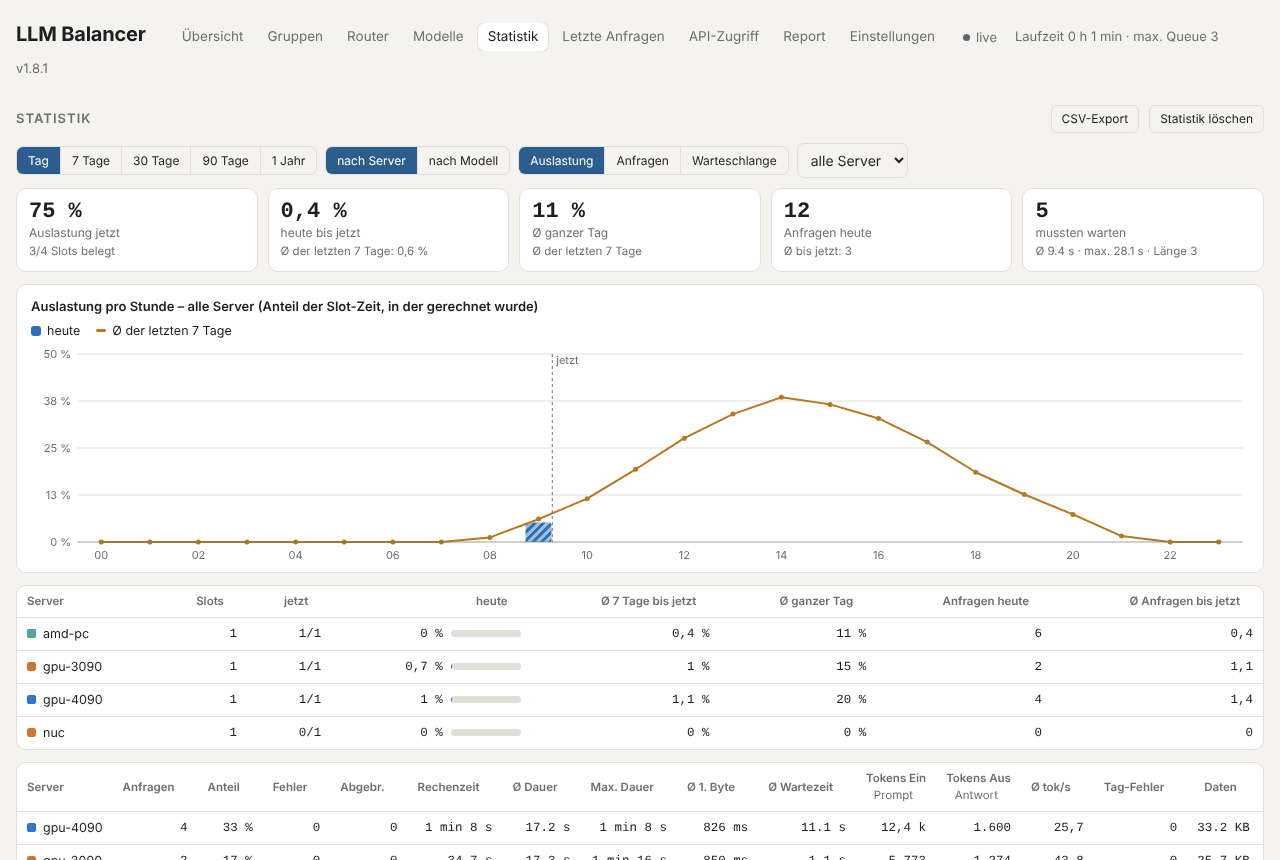
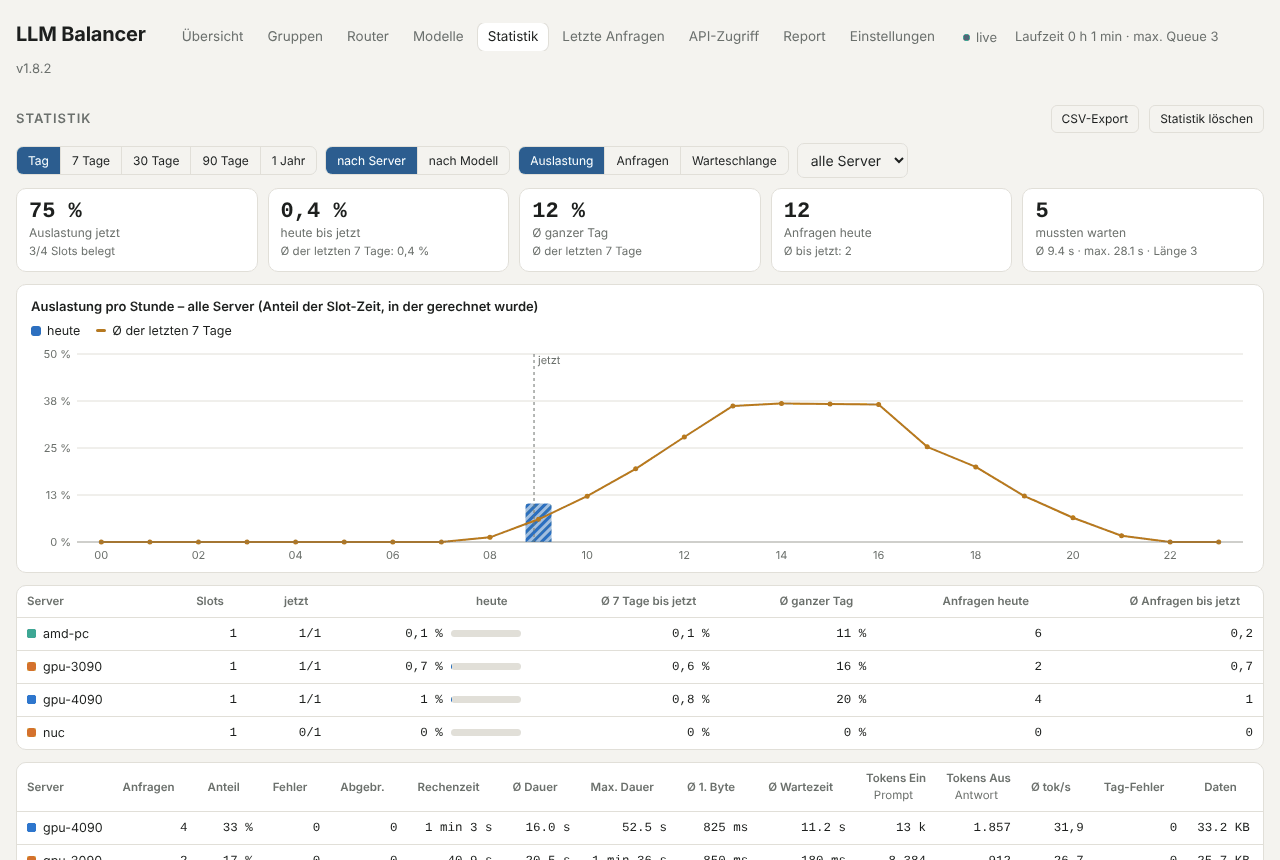
v1.9.0: live throughput and active connections per API token, throughput tile in the overview
Claude-Session: https://claude.ai/code/session_01KQcn9DnyiX6NLjayKoW5s7

diff --git a/web/index.html b/web/index.html
@@ -27,7 +27,7 @@ h2{font-size:13px;text-transform:uppercase;letter-spacing:.08em;color:var(--mute
 .live{display:inline-flex;align-items:center;gap:6px}
 .live i{width:7px;height:7px;border-radius:50%;background:var(--free)}
 .live.stale i{background:var(--down)}
-.tiles{display:grid;grid-template-columns:repeat(auto-fit,minmax(108px,1fr));gap:10px}
+.tiles{display:grid;grid-template-columns:repeat(auto-fit,minmax(100px,1fr));gap:10px}
 .tile{background:var(--panel);border:1px solid var(--line);border-radius:10px;padding:11px 12px;min-width:0}
 .tile span{display:flex;align-items:center;gap:6px;white-space:nowrap;overflow:hidden;text-overflow:ellipsis}
 @media (max-width:640px){.tile span{white-space:normal;line-height:1.25;hyphens:auto;overflow-wrap:anywhere}}
@@ -265,6 +265,7 @@ body[data-role=viewer] #nform input,body[data-role=viewer] #nform select,body[da
 .panel h3{margin:0 0 6px;font-size:14px}
 .chklist label{display:flex;align-items:center;gap:8px;margin:6px 0;font-size:13px;color:var(--ink)} .chklist input{width:auto}
 .impres{font-size:12.5px;margin-top:10px} .impres li{margin:2px 0}
+.lrun{display:inline-flex;align-items:center;gap:6px;font-weight:600}
 #toast{position:fixed;left:50%;bottom:20px;transform:translateX(-50%);background:var(--ink);color:var(--bg);padding:9px 14px;border-radius:8px;font-size:13px;opacity:0;transition:opacity .2s;pointer-events:none;max-width:calc(100vw - 32px)}
 #toast.show{opacity:1}
 </style>
@@ -283,14 +284,15 @@ body[data-role=viewer] #nform input,body[data-role=viewer] #nform select,body[da
   <div id="page-main">
   <div class="tiles">
     <div class="tile"><b id="t-free">–</b><span>freie Slots</span></div>
-    <div class="tile"><b id="t-queue">–</b><span>Warteschlange</span></div>
+    <div class="tile" title="Anfragen in der Warteschlange"><b id="t-queue">–</b><span>wartend</span></div>
+    <div class="tile" title="Erzeugte Tokens pro Sekunde über alle Server, Ø der letzten 10 s"><b id="t-tps">–</b><span id="t-tpssub">tok/s</span></div>
     <div class="tile" title="Anfragen gesamt"><b id="t-total">–</b><span>Anfragen</span></div>
     <div class="tile"><b id="t-rej">–</b><span>abgelehnt</span></div>
     <div class="tile st busy" id="s-busy"><b>–</b><span><i class="sdot"></i>beschäftigt</span></div>
     <div class="tile st idle" id="s-idle"><b>–</b><span><i class="sdot"></i>idle</span></div>
     <div class="tile st error" id="s-error"><b>–</b><span><i class="sdot"></i>fehlerhaft</span></div>
     <div class="tile st down" id="s-down"><b>–</b><span><i class="sdot"></i>down</span></div>
-    <div class="tile st capped" id="s-capped"><b>–</b><span><i class="sdot"></i>Kostendeckel</span></div>
+    <div class="tile st capped" id="s-capped"><b>–</b><span title="Kostendeckel erreicht"><i class="sdot"></i>Deckel</span></div>
     <div class="tile st disabled" id="s-disabled"><b>–</b><span><i class="sdot"></i>deaktiviert</span></div>
   </div>
 
@@ -464,9 +466,10 @@ body[data-role=viewer] #nform input,body[data-role=viewer] #nform select,body[da
     <div class="seg" id="tokRangeSeg">
       <button data-v="1">Heute</button><button data-v="7">7 Tage</button><button data-v="30">30 Tage</button><button data-v="90">90 Tage</button><button data-v="365">1 Jahr</button><button data-v="0" class="on">gesamt</button>
     </div>
+    <span class="srcnote" id="tokenlive" style="margin-left:auto"></span>
   </div>
   <div class="tbl"><table data-sort>
-    <thead><tr><th>Name</th><th>Status</th><th>Token</th><th>Quelle</th><th data-type="date">Zuletzt benutzt</th><th class="n">Anfragen</th>
+    <thead><tr><th>Name</th><th>Status</th><th class="n" title="laufende Anfragen (+ wartende)">Aktiv</th><th class="n" title="erzeugte Tokens pro Sekunde, Ø der letzten 10 s">Durchsatz</th><th>Token</th><th>Quelle</th><th data-type="date">Zuletzt benutzt</th><th class="n">Anfragen</th>
       <th class="n" title="Sicht der Anwendung: Preis pro 1 Mio. gesendete Prompt-Tokens / empfangene Antwort-Tokens">Preis Aus / Ein<br><span class="muted" style="font-weight:400">Prompt / Antwort, pro 1 Mio.</span></th>
       <th class="n" title="Sicht der Anwendung: gesendete Prompt-Tokens">Tokens Aus<br><span class="muted" style="font-weight:400">Prompt</span></th><th class="n" title="Sicht der Anwendung: empfangene Antwort-Tokens">Tokens Ein<br><span class="muted" style="font-weight:400">Antwort</span></th><th class="n" id="tokrevhead">Einnahmen gesamt</th><th class="n">Kostendeckel</th><th data-nosort></th></tr></thead>
     <tbody id="tokens"></tbody>
@@ -1153,6 +1156,10 @@ async function refresh() {
     renderRouters(st);
     renderModelList(st);
     if (location.hash === '#statistik' && stRange === 1) renderDay(false);
+    if (location.hash === '#zugriff' && tokenList.length) renderTokens();
+    const lv = st.live || {};
+    $('t-tps').textContent = tpsTxt(lv.tps || 0).replace(' tok/s', '');
+    $('t-tpssub').parentElement.title = `Erzeugte Tokens pro Sekunde über alle Server, Ø der letzten 10 s\n${lv.running || 0} Anfragen laufen${lv.queued ? ', ' + lv.queued + ' warten' : ''}`;
   } catch (e) { /* shown via live indicator */ }
   const stale = Date.now() - lastOk > 4000;
   $('live').classList.toggle('stale', stale);
@@ -1313,7 +1320,7 @@ async function loadTokens(interactive) {
   let resp;
   try { resp = await fetch(base + '/api/tokens', {headers, cache:'no-store'}); } catch { return; }
   if (resp.status === 401) {
-    $('tokens').innerHTML = `<tr><td colspan="12" class="empty">Zum Anzeigen wird der Admin-Token benötigt. <button onclick="askAdmin()">Admin-Token eingeben</button></td></tr>`;
+    $('tokens').innerHTML = `<tr><td colspan="14" class="empty">Zum Anzeigen wird der Admin-Token benötigt. <button onclick="askAdmin()">Admin-Token eingeben</button></td></tr>`;
     return;
   }
   if (!resp.ok) return;
@@ -1325,7 +1332,18 @@ async function loadTokens(interactive) {
 }
 let tokRange = 0, tokStats = null;
 const TOK_RANGE = {1: 'heute', 7: '7 Tage', 30: '30 Tage', 90: '90 Tage', 365: '1 Jahr'};
+// live: running (+ queued) requests and generated tokens/s per API token; null = all
+const tpsTxt = v => v >= 0.05 ? v.toLocaleString('de-DE', {maximumFractionDigits: v < 10 ? 1 : 0}) + ' tok/s' : '–';
+function liveCells(name) {
+  const lv = current?.live;
+  const l = name === null ? lv : lv?.tokens?.[name];
+  const run = l?.running || 0, q = l?.queued || 0;
+  return `<td class="n" data-v="${run + q}">${run ? `<span class="lrun"><i class="play" style="${phase(1400)}"></i>${run}</span>` : '<span class="muted">0</span>'}${q ? ` <span class="muted" title="wartend">+${q}</span>` : ''}</td>
+    <td class="n" data-v="${l?.tps || 0}">${l?.tps >= 0.05 ? `<b>${tpsTxt(l.tps)}</b>` : '<span class="muted">–</span>'}</td>`;
+}
 function renderTokens() {
+  const lv = current?.live;
+  if (lv) $('tokenlive').innerHTML = `Gerade über alle Tokens: <b style="color:var(--ink)">${lv.running} aktiv</b>${lv.queued ? `, ${lv.queued} wartend` : ''} · <b style="color:var(--ink)">${tpsTxt(lv.tps)}</b>`;
   // numbers: the token's totals ("gesamt") or the statistics of the chosen range
   const use = t => !tokRange ? t : (tokStats?.token_totals?.[t.name] || {requests: 0, tokens_in: 0, tokens_out: 0, cost: 0});
   const list = tokenList.map(t => ({...t, u: use(t)}));
@@ -1334,10 +1352,11 @@ function renderTokens() {
   $('tokrevhead').innerHTML = tokRange ? `Einnahmen<br><span class="muted" style="font-weight:400">${TOK_RANGE[tokRange]}</span>` : 'Einnahmen gesamt';
   const sum = list.reduce((a, t) => ({requests: a.requests + (t.u.requests || 0), tokens_in: a.tokens_in + (t.u.tokens_in || 0), tokens_out: a.tokens_out + (t.u.tokens_out || 0), cost: a.cost + (t.u.cost || 0)}), {requests: 0, tokens_in: 0, tokens_out: 0, cost: 0});
   setHTML($('tokens'), list.length ? list.map(t => t.gone ? `<tr class="muted">
-    <td>${esc(t.name)} <button class="need-admin" style="padding:1px 6px" title="Statistik auf einen vorhandenen Token übertragen" onclick='mergeStats("token", ${attr(t.name)})'>zusammenführen …</button></td><td><span class="tstate off">gelöscht/umbenannt</span></td><td>–</td><td>–</td><td>–</td>
+    <td>${esc(t.name)} <button class="need-admin" style="padding:1px 6px" title="Statistik auf einen vorhandenen Token übertragen" onclick='mergeStats("token", ${attr(t.name)})'>zusammenführen …</button></td><td><span class="tstate off">gelöscht/umbenannt</span></td>${liveCells(t.name)}<td>–</td><td>–</td><td>–</td>
     <td class="n">${num(t.u.requests)}</td><td class="n">–</td><td class="n">${ktok(t.u.tokens_in)}</td><td class="n">${ktok(t.u.tokens_out)}</td><td class="n">${money(t.u.cost)}</td><td class="n">–</td><td></td></tr>` : `<tr>
     <td>${esc(t.name)}${t.models?.length ? `<div class="mchips" style="margin-top:3px">${t.models.map(m => `<span class="mchip${m.includes('*') ? ' pat' : ''}">${esc(m)}</span>`).join('')}</div>` : ''}</td>
     <td>${t.disabled ? '<span class="tstate off">gesperrt</span>' : t.capped ? '<span class="tstate capped" title="Kostendeckel erreicht">Deckel erreicht</span>' : '<span class="tstate">aktiv</span>'}</td>
+    ${liveCells(t.name)}
     <td style="font-family:var(--mono)">…${esc(t.hint)}</td>
     <td>${t.source === 'env' ? 'API_KEYS' : 'Web-UI'}</td>
     <td data-v="${Date.parse(t.last_used) || ''}">${dateFmt(t.last_used)}</td><td class="n">${num(t.u.requests)}</td>
@@ -1347,9 +1366,9 @@ function renderTokens() {
     <td style="text-align:right;white-space:nowrap"><button class="need-admin" onclick='openPrice(${attr(t.name)})' title="Name, erlaubte Modelle, Preis, Kostendeckel">Bearbeiten</button>
       <button class="need-admin" onclick='toggleToken(${attr(t.name)}, ${!t.disabled})'>${t.disabled ? 'Freigeben' : 'Sperren'}</button>
       ${t.source === 'env' ? '' : `<button class="danger need-admin" onclick='deleteToken(${attr(t.name)})'>Löschen</button>`}</td></tr>`).join('')
-    + (list.length > 1 ? `<tr class="sum"><td>Summe</td><td></td><td></td><td></td><td></td><td class="n">${num(sum.requests)}</td><td></td>
+    + (list.length > 1 ? `<tr class="sum"><td>Summe</td><td></td>${liveCells(null)}<td></td><td></td><td></td><td class="n">${num(sum.requests)}</td><td></td>
       <td class="n">${ktok(sum.tokens_in)}</td><td class="n">${ktok(sum.tokens_out)}</td><td class="n">${money(sum.cost)}</td><td></td><td></td></tr>` : '')
-    : '<tr><td colspan="12" class="empty">Keine Tokens – die LLM-API ist offen.</td></tr>');
+    : '<tr><td colspan="14" class="empty">Keine Tokens – die LLM-API ist offen.</td></tr>');
 }
 segment('tokRangeSeg', v => { tokRange = +v; loadTokens(); });
 let tokenList = [], pricing = null;

diff --git a/throughput.go b/throughput.go
@@ -1,0 +1,119 @@
+package main
+
+import "time"
+
+// Live throughput: generated tokens per second over the last few seconds, in total and per API token
+// (and per server). Streamed chunks count while a request runs (≈ one token each); when it finishes,
+// the reported output tokens replace the estimate.
+
+const tpsWindow = 10 // seconds
+
+type tpsSample struct {
+	at  time.Time
+	cum map[string]int64 // key → cumulative output tokens
+}
+
+type LiveLoad struct {
+	Running int     `json:"running"`
+	Queued  int     `json:"queued"`
+	TPS     float64 `json:"tps"` // generated tokens/s, average over the last seconds
+}
+
+type LiveStatus struct {
+	LiveLoad
+	Tokens   map[string]*LiveLoad `json:"tokens"`   // API token name ("" = without token)
+	Backends map[string]*LiveLoad `json:"backends"` // server name
+}
+
+func tpsKeys(r *ReqInfo) []string { return []string{"t:" + r.Token, "b:" + r.Backend} }
+
+func reqOut(r *ReqInfo) int64 { return max(r.chunks.Load(), r.TokensOut) }
+
+// finishedOutLocked books a finished request (caller holds p.mu, r is still in p.active).
+func (p *Pool) finishedOutLocked(r *ReqInfo) {
+	if p.doneOut == nil {
+		p.doneOut = map[string]int64{}
+	}
+	n := reqOut(r)
+	for _, k := range tpsKeys(r) {
+		p.doneOut[k] += n
+	}
+	p.doneOut["all"] += n
+}
+
+// sampleTPSLocked is called once a second.
+func (p *Pool) sampleTPSLocked(now time.Time) {
+	cum := map[string]int64{}
+	for k, v := range p.doneOut {
+		cum[k] = v
+	}
+	for _, r := range p.active {
+		if r.State != "running" {
+			continue
+		}
+		n := r.chunks.Load()
+		for _, k := range tpsKeys(r) {
+			cum[k] += n
+		}
+		cum["all"] += n
+	}
+	p.tpsHist = append(p.tpsHist, tpsSample{now, cum})
+	if len(p.tpsHist) > tpsWindow+1 {
+		p.tpsHist = p.tpsHist[len(p.tpsHist)-tpsWindow-1:]
+	}
+}
+
+func (p *Pool) tpsLocked(key string) float64 {
+	if len(p.tpsHist) < 2 {
+		return 0
+	}
+	a, b := p.tpsHist[0], p.tpsHist[len(p.tpsHist)-1]
+	sec := b.at.Sub(a.at).Seconds()
+	if sec <= 0 {
+		return 0
+	}
+	d := float64(b.cum[key] - a.cum[key])
+	if d < 0 {
+		d = 0
+	}
+	return d / sec
+}
+
+func (p *Pool) liveLocked() LiveStatus {
+	ls := LiveStatus{Tokens: map[string]*LiveLoad{}, Backends: map[string]*LiveLoad{}}
+	get := func(m map[string]*LiveLoad, k string) *LiveLoad {
+		if m[k] == nil {
+			m[k] = &LiveLoad{}
+		}
+		return m[k]
+	}
+	for _, r := range p.active {
+		t := get(ls.Tokens, r.Token)
+		switch r.State {
+		case "running":
+			t.Running++
+			ls.Running++
+			if r.Backend != "" {
+				get(ls.Backends, r.Backend).Running++
+			}
+		case "queued":
+			t.Queued++
+			ls.Queued++
+		}
+	}
+	ls.TPS = p.tpsLocked("all")
+	if len(p.tpsHist) > 0 { // tokens/servers that produced output recently, even if idle now
+		last := p.tpsHist[len(p.tpsHist)-1].cum
+		for k := range last {
+			if v := p.tpsLocked(k); v > 0 {
+				switch k[:2] {
+				case "t:":
+					get(ls.Tokens, k[2:]).TPS = v
+				case "b:":
+					get(ls.Backends, k[2:]).TPS = v
+				}
+			}
+		}
+	}
+	return ls
+}

diff --git a/stats_test.go b/stats_test.go
@@ -181,11 +181,16 @@ func TestStatsFollowRenames(t *testing.T) {
 	_ = b
 	chatModel(t, srv.URL, "m", hdr)
 	chatModel(t, srv.URL, "m", map[string]string{"Authorization": "Bearer sk-alt-0000001"})
-	waitFor(t, func() bool { return getStats(t, srv.URL, 1).Totals["a"] != nil && getStats(t, srv.URL, 1).Totals["a"].Requests == 2 })
+	waitFor(t, func() bool {
+		return getStats(t, srv.URL, 1).Totals["a"] != nil && getStats(t, srv.URL, 1).Totals["a"].Requests == 2
+	})
 	api(t, "PUT", srv.URL+"/balancer/api/backends/a", `{"name":"gpu","url":"`+a.srv.URL+`"}`, "")
 	w.do("PUT", "/api/tokens/alt", `{"name":"neu"}`)
 	chatModel(t, srv.URL, "m", map[string]string{"Authorization": "Bearer sk-alt-0000001"})
-	waitFor(t, func() bool { r := getStats(t, srv.URL, 1); return r.Totals["gpu"] != nil && r.Totals["gpu"].Requests == 3 })
+	waitFor(t, func() bool {
+		r := getStats(t, srv.URL, 1)
+		return r.Totals["gpu"] != nil && r.Totals["gpu"].Requests == 3
+	})
 	rep := getStats(t, srv.URL, 1)
 	if len(rep.Backends) != 1 || rep.Totals["a"] != nil {
 		t.Errorf("backends: %v", rep.Backends)
@@ -203,5 +208,33 @@ func TestStatsFollowRenames(t *testing.T) {
 	}
 	if r := getStats(t, srv.URL, 1); r.Totals["rest"] != nil || r.Totals["gpu"].Requests != 4 {
 		t.Errorf("after merge: %v", r.Backends)
+	}
+}
+
+func TestLiveThroughput(t *testing.T) {
+	a := newFakeLLM(t, "a", 10*time.Millisecond)
+	srv, pool := setup(t, func(c *Config) { c.APIKeys = "hermes=sk-hermes-00001" }, a)
+	r := pool.NewRequest("POST", "/v1/chat/completions", "x")
+	r.Token = "hermes"
+	pool.mu.Lock()
+	r.State, r.Backend = "running", "a"
+	pool.active[r.ID] = r
+	pool.sampleTPSLocked(time.Now().Add(-2 * time.Second))
+	r.chunks.Add(100)
+	pool.sampleTPSLocked(time.Now())
+	pool.mu.Unlock()
+	st := status(t, srv.URL)
+	lt := st.Live.Tokens["hermes"]
+	if st.Live.Running != 1 || lt == nil || lt.Running != 1 || lt.TPS < 45 || lt.TPS > 55 || st.Live.TPS < 45 || st.Live.Backends["a"].TPS < 45 {
+		t.Errorf("live: %+v tokens=%+v", st.Live.LiveLoad, lt)
+	}
+	// finishing keeps the count continuous; the reported tokens replace the estimate
+	r.TokensOut = 120
+	pool.Finish(r, nil, 200, "")
+	pool.mu.Lock()
+	pool.sampleTPSLocked(time.Now().Add(time.Second))
+	pool.mu.Unlock()
+	if v := status(t, srv.URL).Live; v.Running != 0 || v.Tokens["hermes"] == nil || v.Tokens["hermes"].TPS < 35 {
+		t.Errorf("after finish: %+v %+v", v.LiveLoad, v.Tokens["hermes"])
 	}
 }

diff --git a/pool.go b/pool.go
@@ -170,7 +170,9 @@ type Pool struct {
 	initialRouters []RouterConfig
 	sticky         map[string]*stickyEntry
 	routerHits     map[string]*atomic.Int64
-	transport      func(insecure bool) http.RoundTripper // set by the proxy (classifier calls)
+	transport      func(insecure bool) http.RoundTripper
+	doneOut        map[string]int64 // output tokens of finished requests (throughput)
+	tpsHist        []tpsSample      // set by the proxy (classifier calls)
 	access         *Access
 
 	totalReqs     int64
@@ -602,6 +604,9 @@ func (p *Pool) Finish(r *ReqInfo, b *Backend, status int, errMsg string) {
 	r.State = "done"
 	p.nextSeq++
 	r.Seq = p.nextSeq
+	if _, ok := p.active[r.ID]; ok {
+		p.finishedOutLocked(r)
+	}
 	delete(p.active, r.ID)
 	if b != nil && r.Status > 0 && r.Status < 500 && r.Status != 499 && r.Status != 401 && r.Status != 403 && errMsg == "" {
 		b.lastOkAt = r.EndedAt
@@ -710,6 +715,7 @@ type Status struct {
 	Commit     string          `json:"commit,omitempty"`
 	States     map[string]int  `json:"states"` // state → number of backends
 	TotalSlots int             `json:"total_slots"`
+	Live       LiveStatus      `json:"live"`
 }
 
 func snapshot(r *ReqInfo, now time.Time) *ReqInfo {
@@ -765,6 +771,7 @@ func (p *Pool) Status() Status {
 	if p.access != nil {
 		st.AccessAuth = p.access.Enabled()
 	}
+	st.Live = p.liveLocked()
 	st.Currency = p.cfg.Currency
 	st.Version = versionString()
 	st.Commit = shortCommit()
@@ -980,6 +987,7 @@ func (p *Pool) tick() {
 			p.dispatchLocked()
 		}
 		p.pruneStickyLocked(time.Now())
+		p.sampleTPSLocked(time.Now())
 		p.mu.Unlock()
 	}
 }

diff --git a/CHANGELOG.md b/CHANGELOG.md
@@ -3,6 +3,13 @@
 Versionsnummer: `VERSION` (wird ins Programm eingebaut und oben in der Web-UI angezeigt).
 Zu jeder Version gibt es ein Image `ghcr.io/wakkomon/llm-balancer:<version>`; `latest` ist immer der neueste Stand von `main`.
 
+## 1.9.0 – 2026-11-01
+
+- **Live-Durchsatz**: erzeugte Tokens pro Sekunde (Ø der letzten 10 s) – als Kachel in der Übersicht, pro API-Token
+  und als Summe unter API-Zugriff, dort auch die aktiven (laufenden + wartenden) Anfragen je Token.
+  Status-API: `live` mit `running`, `queued`, `tps` sowie `tokens` und `backends`
+- Kacheln der Übersicht etwas kompakter beschriftet („wartend“, „Deckel“), damit alle in eine Zeile passen
+
 ## 1.8.2 – 2026-10-31
 
 - Anleitung: Hinweis, dass das Projekt KI-generiert ist; neuer Abschnitt „Funktionsumfang“ und „Bedienung“ mit
